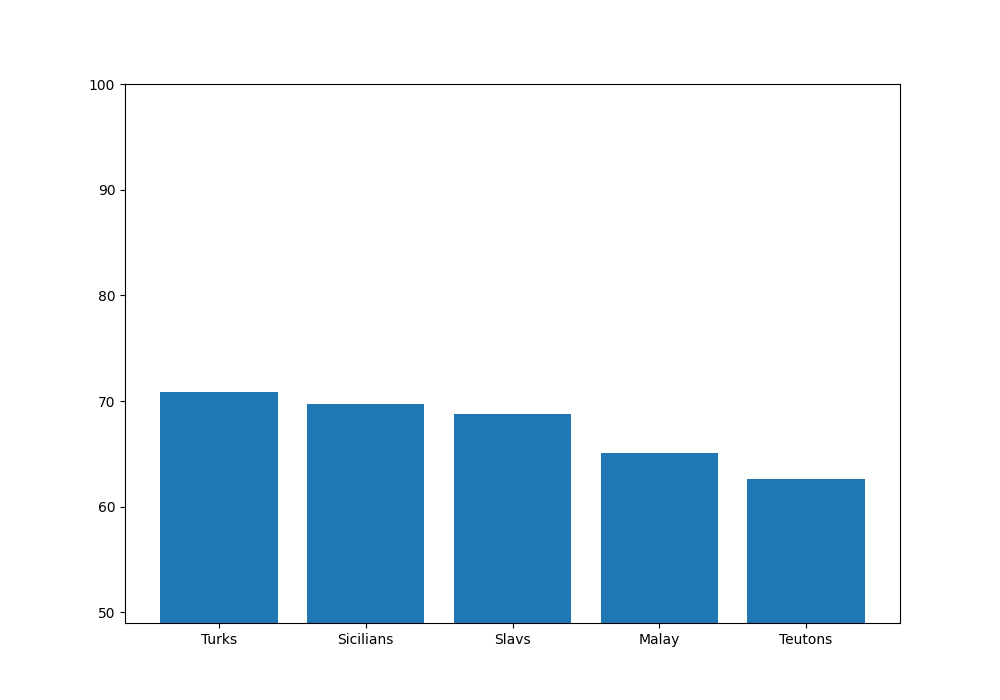
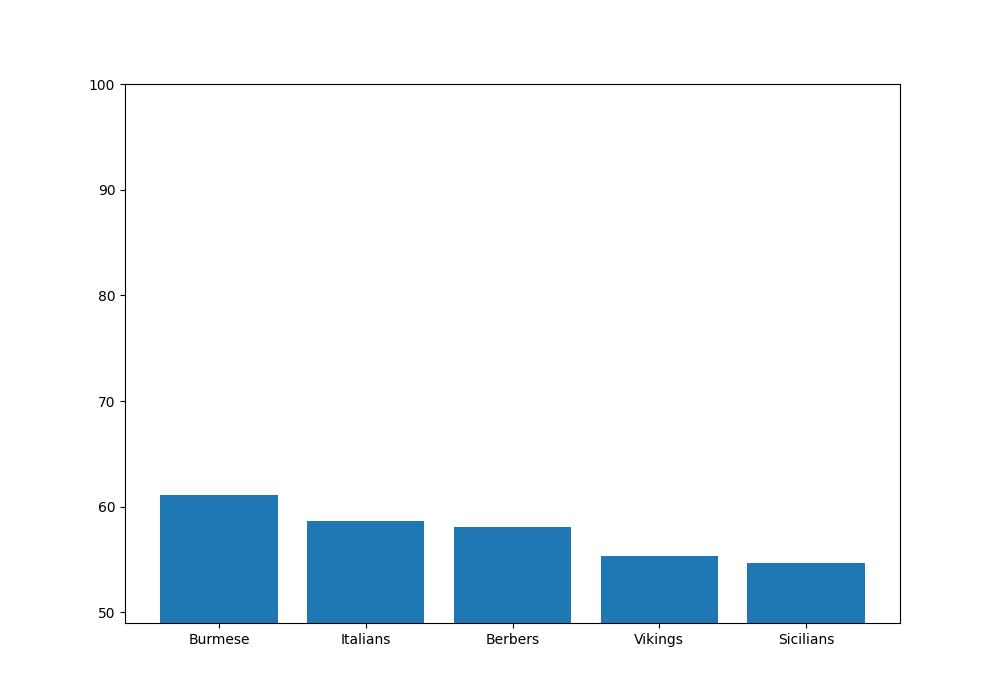
edited column names & rounded results

diff --git a/flask/templates/stratoptimizer.html b/flask/templates/stratoptimizer.html
@@ -36,12 +36,12 @@
       </div>
     </nav>
     
-    <h1>StratOptimizer</h1>
+    <h1>Strategy Optimizer</h1>
 
     <div class="form-box">
       <form action="{{ url_for('results') }}" method="POST">
         <input type="hidden" id="data_from_where" name="data_from_where" value="stratoptimizer">
-        <label class="input-label for="map_list">Choose a map:</label>
+        <label class="input-label" for="map_list">Choose a map:</label>
         <select class="input-area" id="map_list" name="aoe2map">
           {% for aoe2map in map_list %}
           <option value="{{ aoe2map }}">{{ aoe2map }}</option>
@@ -65,7 +65,7 @@
         </select>
         <br>
 
-        <label class="input-label for="elo">Choose elo range:</label>
+        <label class="input-label" for="elo">Choose elo range:</label>
         <select class="input-area" id="elo" name="elo">
           <option value="all">All</option>
           <option value="low">Low (<1000)</option>

diff --git a/flask/templates/winrates.html b/flask/templates/winrates.html
@@ -86,7 +86,7 @@
         </form>
     </div>
     {% if res %}
-        <h3>Top 5 civilizations in {{res['selected_map']}}</h3>
+        <h3>Top 5 Civilizations in {{res['selected_map']}}</h3>
         <p><b>Ranking: </b>{{res['elo_msg']}}</p>
         <p><b>Duration: </b>{{res['min_dura']}} - {{res['max_dura']}}</p>
         <p>Data consists of {{res['total_games']}} games.</p>

diff --git a/flask/analysis.py b/flask/analysis.py
@@ -116,15 +116,15 @@ def analyze_winrates(selected_elo, selected_map, selected_fromduration, selected
     #wins with civ / all games with civ
     winrate_table = table['civ.win.name'].value_counts()/(table['civ.win.name'].value_counts()+table['civ.lose.name'].value_counts())
     #sort winrates and name columns
-    winrate_table = winrate_table.sort_values(ascending = False).reset_index().rename(columns={'index':'civs',0:'win_rate'})
+    winrate_table = winrate_table.sort_values(ascending = False).reset_index().rename(columns={'index':'civilizations',0:'wins'})
     #winrate to percentage
-    winrate_table.win_rate = winrate_table.win_rate * 100
+    winrate_table.wins = round(winrate_table.wins * 100, 2)
     #index starts from 1
     winrate_table.index += 1
 
     fig = plt.figure(figsize= (10, 7))
     ax = fig.subplots()
-    plt.bar(winrate_table.civs.iloc[0:5], winrate_table.win_rate.iloc[0:5])
+    plt.bar(winrate_table.civilizations.iloc[0:5], winrate_table.wins.iloc[0:5])
     ax.set(ylim=[49, 100])
     fig.savefig('./flask/static/images/plot.png')
 
